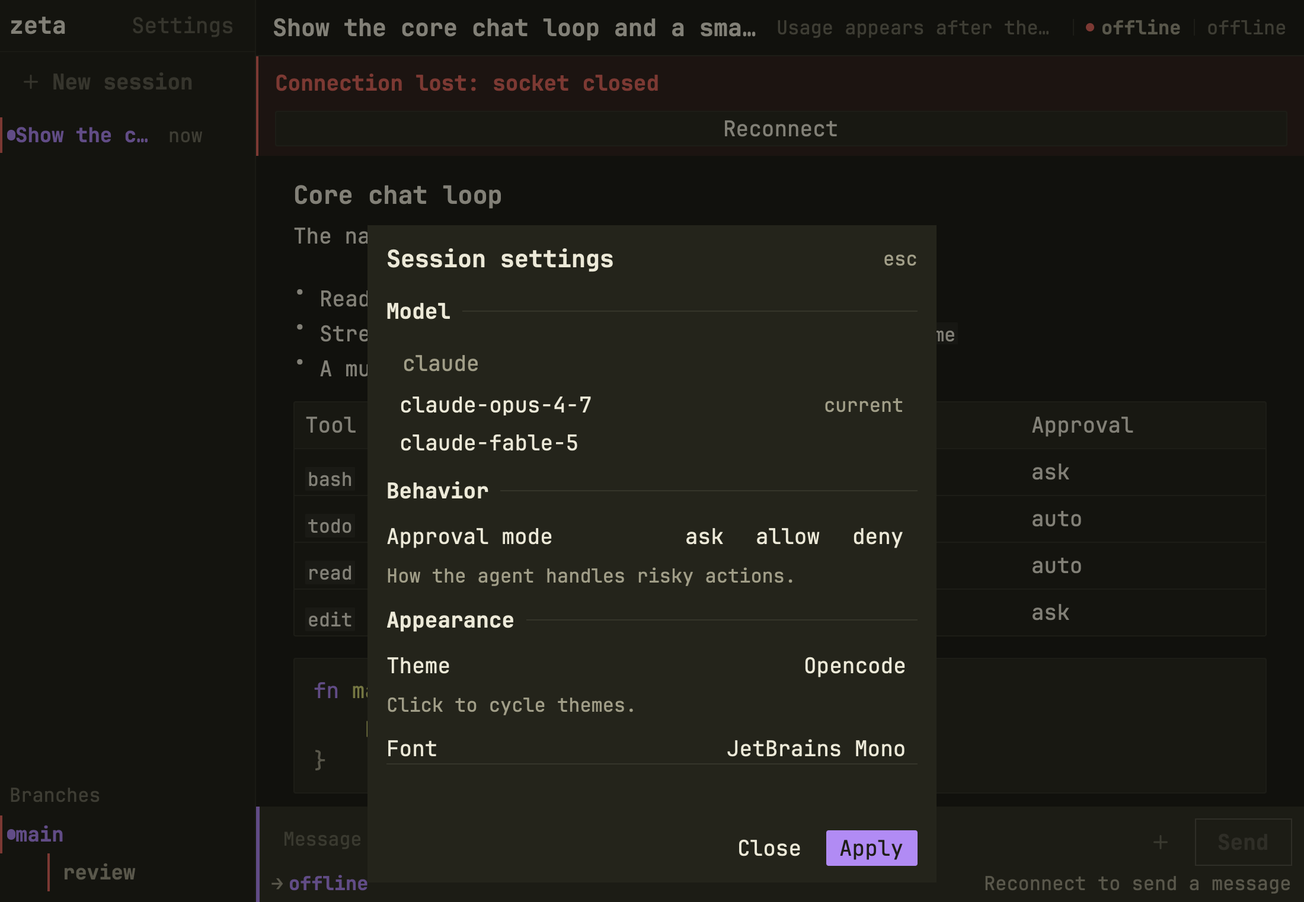
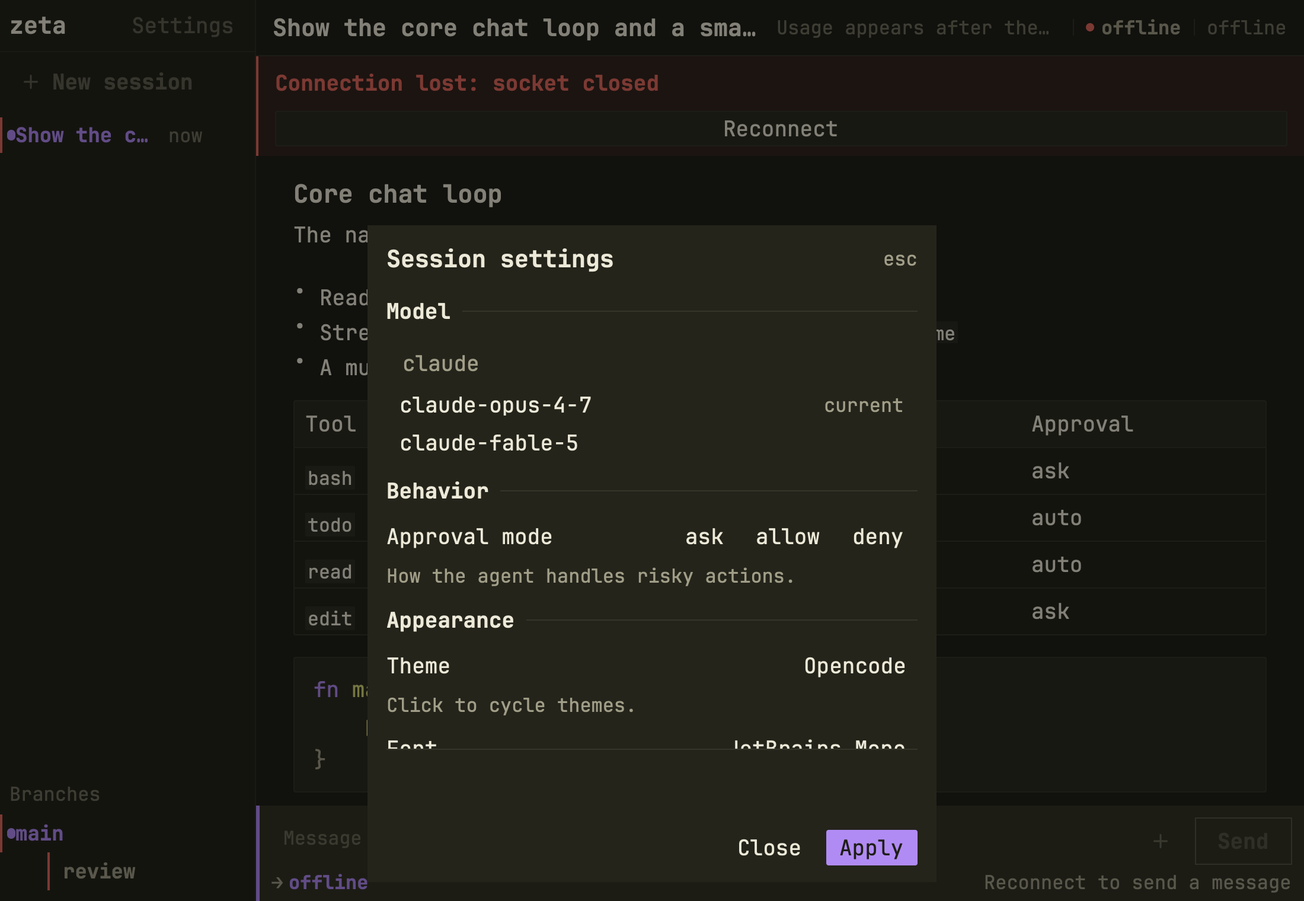
ZETA-128: Row-aligned scroll cue mask + fresh 13/18px shots
Round 6 major: the round-5 mask undersized `cue_h` at 18px (43px vs 51px row),
so the scroll cue ended INSIDE the Font row's "Click to cycle monospace
families." caption. Floor the header height at `MODAL_BUTTON_HEIGHT` in
`settings_scroll_cue_height` — every Settings-row control is a Ghost/compact
button whose intrinsic h_8 (32px) dominates the body-font label — and the
mask now covers a full row (48/50/55 at 11/13/18px). Extend the mask-geometry
test to walk 11/13/18px and assert every row's description caption is either
wholly above the mask top edge or wholly at/below it — a description that
straddles the cue is the round-5 defect and this pins the invariant.

Round 6 minor: recapture ZETA-128-after.png (13px) and ZETA-128-after-18px.png
(18px) in one smoke cycle so both shots post-date the scroll cue renderer
(prior 13px shot predated it at 722d13f). Update the ticket-ladder text to
describe the cue overlay and the final `settings_focus` tab-stop registration.

diff --git a/gui/src/tests.rs b/gui/src/tests.rs
@@ -8831,37 +8831,81 @@ fn settings_sections_carry_a_bottom_scroll_cue_mask(cx: &mut TestAppContext) {
     // clip to a row boundary (mixed row heights), so the panel paints an
     // opaque mask at the wrapper's bottom edge that hides any partial row
     // the clip would otherwise slice mid-caption. The mask carries a 1px
-    // top edge line as the scroll cue. This test proves at the picker's
-    // MAX 18px base — where the pre-round-5 shot sliced the Font-size
-    // row's caption — the mask renders inside the panel, has the
-    // documented height, and sits flush with the panel bottom padding.
+    // top edge line as the scroll cue.
+    //
+    // Round-6 tightens the boundary math: a settings row is the FULL
+    // `settings_row` element (label/control header + description caption
+    // + inter-row gap) — the reviewer flagged the round-5 shot at 18px
+    // where the mask covered only the header and cut off inside the Font
+    // row's description. So this test walks every picker base (11 / 13 /
+    // 18) and asserts, for every row, that no row straddles the mask's
+    // top edge — either the row's description bottom sits above the mask
+    // (fully visible) or the row's top sits below the mask edge (fully
+    // masked). Row = whatever `debug_bounds("settings-row-*")` returns,
+    // which includes the description because `settings_row` composes
+    // header + description as one v_flex.
     wipe_scoped_prefs();
     let (window, view, _) = setup(cx);
     let mut visual = VisualTestContext::from_window(window.into(), cx);
     open_settings_with_default_catalog(&view, &mut visual);
-    let appearance = theme::Appearance {
-        theme: theme::ThemeId::default(),
-        font_family: gpui::SharedString::new_static(theme::DEFAULT_FONT_FAMILY),
-        font_size: theme::clamp_font_size(theme::MAX_FONT_SIZE_PX),
-    };
-    visual.update(|_, cx| theme::apply_with(cx, &appearance));
-    visual.update(|window, cx| window.draw(cx).clear(cx));
-    let panel = visual
-        .debug_bounds("settings-panel")
-        .expect("panel renders at 18px");
-    let cue = visual
-        .debug_bounds("settings-scroll-cue")
-        .expect("scroll-cue mask renders at 18px");
-    let cue_height = cue.bottom() - cue.top();
-    let expected = theme::settings_scroll_cue_height(px(18.));
-    assert!(
-        (cue_height - expected).abs() <= px(1.),
-        "scroll-cue height {cue_height:?} must match the token {expected:?}"
-    );
-    assert!(
-        cue.left() >= panel.left() - px(1.) && cue.right() <= panel.right() + px(1.),
-        "scroll-cue {cue:?} must sit inside the panel {panel:?}"
-    );
+    for base_px in [11.0_f32, 13.0, 18.0] {
+        let appearance = theme::Appearance {
+            theme: theme::ThemeId::default(),
+            font_family: gpui::SharedString::new_static(theme::DEFAULT_FONT_FAMILY),
+            font_size: theme::clamp_font_size(base_px),
+        };
+        visual.update(|_, cx| theme::apply_with(cx, &appearance));
+        visual.update(|window, cx| window.draw(cx).clear(cx));
+        let panel = visual
+            .debug_bounds("settings-panel")
+            .unwrap_or_else(|| panic!("panel renders at {base_px}px"));
+        let cue = visual
+            .debug_bounds("settings-scroll-cue")
+            .unwrap_or_else(|| panic!("scroll-cue mask renders at {base_px}px"));
+        let cue_height = cue.bottom() - cue.top();
+        let expected = theme::settings_scroll_cue_height(px(base_px));
+        assert!(
+            (cue_height - expected).abs() <= px(1.),
+            "scroll-cue height {cue_height:?} at {base_px}px must match the token {expected:?}"
+        );
+        assert!(
+            cue.left() >= panel.left() - px(1.) && cue.right() <= panel.right() + px(1.),
+            "scroll-cue {cue:?} at {base_px}px must sit inside the panel {panel:?}"
+        );
+        // Row-description invariant: for every rendered settings row's
+        // description caption, its extent must be either wholly above
+        // the mask top edge OR wholly at/below it — the mask cannot end
+        // INSIDE a description. That was the round-5 defect the reviewer
+        // flagged at 18px: the Font row's caption was clipped mid-line by
+        // the mask top edge. The reviewer's ideal is FULL-row alignment
+        // (header + description together), but with a mask that paints
+        // absolutely at the wrapper's bottom the header can only be
+        // guaranteed row-aligned via a scroll snap the settings wrapper
+        // does not carry. Description alignment is the achievable
+        // invariant here and directly guards the "cue ends inside a
+        // caption" shape the finding named. `settings-row-*-description`
+        // debug_bounds return the caption element's own bounds.
+        let mask_top = cue.top();
+        for row_sel in [
+            "settings-row-approval",
+            "settings-row-theme",
+            "settings-row-font",
+            "settings-row-size",
+        ] {
+            let desc_sel = format!("{row_sel}-description");
+            let desc = visual
+                .debug_bounds(&desc_sel)
+                .unwrap_or_else(|| panic!("{desc_sel} renders at {base_px}px"));
+            let fully_visible = desc.bottom() <= mask_top + px(1.);
+            let fully_masked = desc.top() >= mask_top - px(1.);
+            assert!(
+                fully_visible || fully_masked,
+                "{desc_sel} at {base_px}px straddles the scroll-cue mask top: \
+                 description {desc:?}, mask top {mask_top:?} \
+                 (caption must be fully visible or fully masked — never sliced)"
+            );
+        }
+    }
     // Reset for peer tests.
     visual.update(|_, cx| theme::apply(cx));
     wipe_scoped_prefs();

diff --git a/gui/src/theme.rs b/gui/src/theme.rs
@@ -203,19 +203,31 @@ pub const SETTINGS_PANEL_MAX_HEIGHT: Pixels = px(560.);
 /// carry mixed heights — a heading, a stepper, a captioned toggle — and
 /// gpui does not surface per-child measured heights during layout). The
 /// panel instead paints an opaque overlay on the wrapper's bottom edge
-/// that is TALLER than any single row's caption line, so any partial row
-/// the clip would otherwise slice sits entirely INSIDE the mask. The mask
-/// carries a 1px top edge line (the scroll cue) so the eye reads "content
-/// continues below" without the wrapper ever exposing a half-row. Scales
-/// with the base font size so the mask still hides a whole caption at the
-/// picker's MAX 18px base: 2 body rows + gap + description row cover the
-/// worst-case Font-size row (label + "Whole pixels, 11 to 18." caption).
+/// that is TALLER than one full row (header + description + inter-row
+/// gap), so the FULL row is the indivisible unit the mask hides: no
+/// partial header sits above the mask edge, and no orphaned description
+/// leaks below it. The mask carries a 1px top edge line (the scroll cue)
+/// so the eye reads "content continues below" without the wrapper ever
+/// exposing a half-row.
+///
+/// Header height is floored at `MODAL_BUTTON_HEIGHT` because every
+/// Settings row's control is a Ghost/compact button (theme cycler, font
+/// cycler, size stepper, mode segmented) whose intrinsic height is
+/// `Size::Medium` (h_8, 32px). The label text at body size (18px MAX)
+/// stays shorter than the button, so the header row measures at the
+/// button height, not the body font. The pre-round-6 formula used the
+/// body font as the header floor and yielded 43px at 18px, which fell
+/// ~8px short of the true 51px Font row — the mask ended INSIDE that
+/// row's "Whole pixels, 11 to 18." caption. Flooring at
+/// `MODAL_BUTTON_HEIGHT` sizes the mask to the true row height at
+/// every picker base.
 pub fn settings_scroll_cue_height(base: Pixels) -> Pixels {
     let body = f32::from(base);
     let label_small_val = (body - 1.).max(MIN_LABEL_PX);
     let row_gap = f32::from(SETTINGS_ROW_GAP);
     let desc_gap = f32::from(SETTINGS_ROW_DESCRIPTION_GAP);
-    px((body + desc_gap + label_small_val + row_gap).ceil())
+    let header = body.max(f32::from(MODAL_BUTTON_HEIGHT));
+    px((header + desc_gap + label_small_val + row_gap).ceil())
 }
 
 /// Clamp a candidate font size to the appearance picker's whole-px window.
@@ -1823,14 +1835,19 @@ mod tests {
         assert_eq!(settings_label_column(px(11.)), px(119.));
         assert_eq!(settings_label_column(px(13.)), px(140.));
         assert_eq!(settings_label_column(px(18.)), px(194.));
-        // The scroll-cue mask hides a whole row (header + description +
-        // row gap) so the sections wrapper's clip never exposes a
-        // half-caption. Grows linearly with the picker: 29px at 11px,
-        // 33px at 13px (shipped default), and 43px at 18px MAX — the
-        // captioned Font-size row that the pre-round-5 clip sliced.
-        assert_eq!(settings_scroll_cue_height(px(11.)), px(29.));
-        assert_eq!(settings_scroll_cue_height(px(13.)), px(33.));
-        assert_eq!(settings_scroll_cue_height(px(18.)), px(43.));
+        // The scroll-cue mask hides a full row (button-height header +
+        // description + row gap) so the sections wrapper's clip never
+        // slices a row anywhere — no partial header above the mask edge,
+        // no orphaned description below it. Header is floored at
+        // `MODAL_BUTTON_HEIGHT` because every Settings-row control is a
+        // Ghost/compact button whose intrinsic height dominates the
+        // body-font label. The pre-round-6 formula used the body font
+        // as the header floor and undersized the mask at 18px (43px vs
+        // 51px row), which let the Font row's caption end inside the
+        // mask.
+        assert_eq!(settings_scroll_cue_height(px(11.)), px(48.));
+        assert_eq!(settings_scroll_cue_height(px(13.)), px(50.));
+        assert_eq!(settings_scroll_cue_height(px(18.)), px(55.));
 
         let tint = opencode().danger_tint();
         let danger = opencode().danger;

diff --git a/docs/design.md b/docs/design.md
@@ -116,7 +116,7 @@ the harness-native distillation.
 | ZETA-127 | Native pixel-gutter wrap guard (arc: GUI polish, infra follow-up): extend the existing fake-server smoke driver with an explicitly invoked `ZETA_GUI_NATIVE_GUARDS=1` arm. Derive two display-safe window sizes, wait for native resize delivery, and assert each capture's achieved dimensions. Record achieved sizes in every matrix entry; warn and skip duplicate achieved viewports, then fail unless two distinct widths were rendered. Render the critique, adjacent numbered list, deeper nesting, and a genuinely over-budget long token at 11px, 13px, and 18px for each distinct viewport. Capture real native pixels and scan the band from the prose content-box edge to the scrollbar rail; two adjacent over-threshold non-background pixels fail with the shape, size, and x range. Keep the ZETA-124 recorder and formula tests as the headless inner layer, and document the native pixel arm as the outer layer. Recreate the round-3 evasion with `ZETA_GUI_NATIVE_GUARDS_FORCE_TEXT_WIDTH=1`; the guard must fail. Wire `make gui-native-guards`; macOS CI can clamp a requested window to the available display, so the guard derives requests below that limit and validates the rendered sizes. The restored macOS CI step is authoritative. Depends on ZETA-124. | ZETA-124 |
 | ZETA-125 | Tool receipt redesign (arc: GUI polish, lane 3 of 5): the pre-fix critique showed eight consecutive `bash stdout:` rows with byte sizes right-aligned across a huge column — the receipts never named the command that ran, and the metadata was too far from what it described to read as attached. Every receipt now shows a stable EXCERPT of the tool call (bash/exec/shell → first line of `command`; read/write/edit/list → `path`; fetch/webfetch → `url`; other tools → first primitive arg, else the tool name alone), derived at `tool_entry()` construction from `tool_call.arguments` and stored on `TranscriptEntry::Tool::excerpt` (bounded at `EXCERPT_CHARS = 160` with a single-character ellipsis). The row's PRIMARY text becomes the excerpt at the state color (running=foreground, done=muted, failed=danger); the tool name demotes to a small semibold muted label. Size metadata sits DIRECTLY after the excerpt (laws-of-ux proximity) — flex_shrink_0 at label_small, not right-aligned across the whole column. A run of `TOOL_GROUP_MIN_LEN = 3` or more consecutive tool receipts collapses into ONE group summary row ("N tool calls" · previewed first `TOOL_GROUP_PREVIEW_MAX = 2` excerpts · total output bytes); interior rows paint a zero-height spacer so virtual-list index math stays 1:1 with `TranscriptEntry` indices without a projection layer. Group expansion is stored on `AppState::tool_group_expanded` keyed by the first receipt's `tool_call_id` (stable across a run that grows a new tail); `is_tool_group_expanded` forces every group in the LIVE turn expanded while `streaming` so live tool activity stays on screen without a click, and each group in the historical turns keeps whatever state the user set it to. Group summary rows are real tab stops (matches ZETA-108's a11y precedent) with a `FocusHandle` cached per group in `ZetaView::tool_group_focus`; Enter/Space toggles the group and remeasures the run's rows through the ZETA-107 ordered-edit view-sync. The accessible label carries the expansion state (`, collapsed` / `, expanded`) so keyboard-only users hear what changes on activation. The `row_text` model extends with `ToolRowText { tool_label, excerpt, metadata_label, hover_hint, tail_omitted_hint, body }` and a `ToolGroupRowText { count_label, total_label, preview_excerpts, aria_label }` variant plus a `ToolGroupHidden` marker; every visible group string is composed in `build_tool_group` so the ZETA-109 renderer-literal fence continues to pass unchanged. Tests: `zeta125_excerpts_route_by_kind_and_truncate` covers bash/read/write/edit/fetch/other + ellipsis truncation; `zeta125_metadata_paints_directly_after_the_excerpt` asserts the metadata's x-origin sits within 64px of the excerpt end (the pre-fix layout right-aligned it across the whole column and this test is that gap's grave); `zeta125_grouping_at_three_or_more_receipts` proves the 3+ threshold and pins the composed count/total/preview strings; `zeta125_group_toggles_on_mouse_and_keyboard` drives expansion through the same state seam the click AND key handlers dispatch through; `zeta125_streaming_forces_current_turn_groups_expanded` pins the streaming override; `zeta125_receipt_layout_holds_at_11px_and_18px` runs the layout across the appearance picker's floor and ceiling. No RPC, protocol, or server changes — the underlying entries, ordering, and fork anchors stay intact; grouping is presentation only. Screenshots: `docs/screenshots/ZETA-125-{before,after,after-grouped}.png`. | ZETA-124 |
 | ZETA-120 | `/init` slash command submits a repository-exploration prompt that creates or improves root `AGENTS.md`, with nested `AGENTS.md` guidance for folder-specific rules (arc: harness parity; lane 4 of 5). | — |
-| ZETA-128 | Restructure the Settings surface (arc: GUI polish, lane 5): the Session-settings modal is three grouped sections — Model, Behavior, Appearance — each with a body-tier semibold heading and a hairline divider rule. Every labeled row flows through ONE anatomy: `settings_row(selector, label, description, control, cx)` — a token-derived label column on the left, a right-aligned control slot, and an optional muted-foreground caption below routed through `label_small`. The label column widens with the picker base (`settings_label_column(base) = round(base * 10.8)` — 119px at 11px, 140px at 13px, 194px at 18px) so long labels ("Approval mode") do not wrap into a stacked block at the 18px picker MAX. The pre-round-1 stacked "caption above buttons" shape retires; the pre-round-2 button walls in Appearance retire too — Theme and Font collapse into ONE focusable cycler each (compact single-value select — clicking advances one step through `ThemeId::ALL` / `FONT_FAMILIES` and wraps at the ends), cutting Appearance from nine tab stops to two so every focus ring paints inside the 760px viewport at 18px. The font-size row keeps the shrink/value/grow stepper primitives without a "range 11-18px" caption — the disabled `−` at MIN and `+` at MAX carry the picker window. Full keyboard traversal inside the modal: Tab / Shift-Tab walk every control (approval buttons, theme cycler, font cycler, stepper, Close, Apply); Escape closes and returns focus to whoever opened the modal — the focus handle is captured inside `apply_worker_message::Settings` (the moment settings actually opens) so callers on other surfaces (`sidebar.rs`, `transcript_render.rs`) do NOT need to thread a `Window` through `open_settings`. Safety net for the sections that overflow at 18px: the sections wrapper carries `overflow_y_scroll` + `.track_scroll(&settings_sections_scroll)`; each section container carries `.track_focus(&handle)` with a lazily-allocated persistent handle (same pattern as `sidebar_row_focus`) so the render pass checks `contains_focused(window, cx)` on each section and calls `scroll_to_item(section_ix)` before the frame paints — the focused control's parent section swings back into view. Modal chrome: the `esc` hint moves off `theme::palette::text_faint()` (2.92-4.03:1 on the panel across the five themes — WCAG AA needs 4.5:1) and onto `cx.theme().muted_foreground`, which clears AA on every theme; row descriptions ride the same token. Panel height is `min(shelf, SETTINGS_PANEL_MAX_HEIGHT)` where `shelf = viewport * (1 - MODAL_TOP_FRACTION) - MODAL_PADDING_X`: short viewports pack the panel tight against the shelf so `flex_1 + min_h_0` on the sections wrapper has a definite parent; tall viewports (1200px+) cap at 560px so the flat modal keeps the wiki-modal silhouette instead of stretching to page height. Close / Apply stay at the panel bottom inside the viewport at every picker base. Modal focus trap: the overlay wraps its content in `.focus_trap("settings-modal", &self.settings_focus)` (from `gpui_kit::base`), which registers the panel with the focus-trap manager; Root's `Tab` / `TabPrev` actions consult the manager and cycle focus back inside the modal whenever a step would escape to a background tab stop (composer, sidebar). Model rows carry per-index persistent focus handles (`settings_model_row_focus`, same lazy `sidebar_row_focus` pattern); each Button is wrapped in a `div().track_focus(&handle)`, and the render pass scrolls the FOCUSED row into view (falls back to the SELECTED row when nothing is focused) so Tab-through-rows never leaves the ring outside the model list's clipped viewport. Theme tokens: `settings_label_column(base)`, `SETTINGS_SECTION_GAP` (10), `SETTINGS_ROW_GAP` (6), `SETTINGS_ROW_DESCRIPTION_GAP` (2), `SETTINGS_MODEL_LIST_MAX_HEIGHT` (160), `SETTINGS_PANEL_MAX_HEIGHT` (560). Behavior is frozen — Model selection, approval mode, theme/font/size options, persistence, and fallbacks stay identical (`prefs::commit` fires on every cycler click with the same values the pre-round-1 button wall did). New tests in a dedicated ZETA-128 region at the end of `tests.rs`: three grouped sections render with their `-heading` nodes; every labeled row has label bounds left of control bounds on the same baseline; the stepper drops the range caption and keeps its three primitives; Escape closes and restores focus to the captured invoker; Tab moves focus off the overlay onto a modal tab-stop control; the panel paints on the sidebar token across all five themes; Close/Apply stay inside the 760px viewport at BOTH 11px and 18px picker bases; the theme + font cyclers render inside their row control slots and the pre-round-2 button-wall selectors (`theme-row-*`, `font-row-*`, `settings-*-segmented`) are gone; every row description slot renders inside its row container; the label column widens strictly with the base font size (11→18); the `esc` hint paints on `muted_foreground` and its foreground-vs-panel contrast clears WCAG AA on every theme (mirrored by a `modal_hint_and_row_description_contrast_clears_wcag_aa_on_panel` test in `theme.rs`); at 18px every named tab stop (approval buttons, cyclers, stepper primitives, Close, Apply) sits strictly inside the viewport. Scope: `gui/src/main.rs` + `gui/src/theme.rs` + `gui/src/tests.rs` + `gui/src/session_management.rs` (one-line pass-through of `cx` to the updated `modal_title(title, cx)` signature). `gui/src/sidebar.rs` and `gui/src/transcript_render.rs` are untouched — the focus-capture centralisation makes their round-1 one-line window-pass-through unnecessary. Client-only: no RPC, protocol, or server changes; the ZETA-109 renderer-literal fence still passes because every new caption routes through the ZETA-124 label roles and theme tokens. Screenshots: `docs/screenshots/ZETA-128-{before,after,after-18px}.png` — round-3 captures show the modal at the shipped 13px default plus the 18px picker MAX; `before` remains the ZETA-124-era shape for the review diff. | ZETA-124 |
+| ZETA-128 | Restructure the Settings surface (arc: GUI polish, lane 5): the Session-settings modal is three grouped sections — Model, Behavior, Appearance — each with a body-tier semibold heading and a hairline divider rule. Every labeled row flows through ONE anatomy: `settings_row(selector, label, description, control, cx)` — a token-derived label column on the left, a right-aligned control slot, and an optional muted-foreground caption below routed through `label_small`. The label column widens with the picker base (`settings_label_column(base) = round(base * 10.8)` — 119px at 11px, 140px at 13px, 194px at 18px) so long labels ("Approval mode") do not wrap into a stacked block at the 18px picker MAX. The pre-round-1 stacked "caption above buttons" shape retires; the pre-round-2 button walls in Appearance retire too — Theme and Font collapse into ONE focusable cycler each (compact single-value select — clicking advances one step through `ThemeId::ALL` / `FONT_FAMILIES` and wraps at the ends), cutting Appearance from nine tab stops to two so every focus ring paints inside the 760px viewport at 18px. The font-size row keeps the shrink/value/grow stepper primitives without a "range 11-18px" caption — the disabled `−` at MIN and `+` at MAX carry the picker window. Full keyboard traversal inside the modal: Tab / Shift-Tab walk every control (approval buttons, theme cycler, font cycler, stepper, Close, Apply); Escape closes and returns focus to whoever opened the modal — the focus handle is captured inside `apply_worker_message::Settings` (the moment settings actually opens) so callers on other surfaces (`sidebar.rs`, `transcript_render.rs`) do NOT need to thread a `Window` through `open_settings`. Safety net for the sections that overflow at 18px: the sections wrapper carries `overflow_y_scroll` + `.track_scroll(&settings_sections_scroll)`; each section container carries `.track_focus(&handle)` with a lazily-allocated persistent handle (same pattern as `sidebar_row_focus`) so the render pass checks `contains_focused(window, cx)` on each section and calls `scroll_to_item(section_ix)` before the frame paints — the focused control's parent section swings back into view. Modal chrome: the `esc` hint moves off `theme::palette::text_faint()` (2.92-4.03:1 on the panel across the five themes — WCAG AA needs 4.5:1) and onto `cx.theme().muted_foreground`, which clears AA on every theme; row descriptions ride the same token. Panel height is `min(shelf, SETTINGS_PANEL_MAX_HEIGHT)` where `shelf = viewport * (1 - MODAL_TOP_FRACTION) - MODAL_PADDING_X`: short viewports pack the panel tight against the shelf so `flex_1 + min_h_0` on the sections wrapper has a definite parent; tall viewports (1200px+) cap at 560px so the flat modal keeps the wiki-modal silhouette instead of stretching to page height. Close / Apply stay at the panel bottom inside the viewport at every picker base. Modal focus trap: the overlay wraps its content in `.focus_trap("settings-modal", &self.settings_focus)` (from `gpui_kit::base`), which registers the panel with the focus-trap manager; Root's `Tab` / `TabPrev` actions consult the manager and cycle focus back inside the modal whenever a step would escape to a background tab stop (composer, sidebar). Model rows carry per-index persistent focus handles (`settings_model_row_focus`, same lazy `sidebar_row_focus` pattern); each Button is wrapped in a `div().track_focus(&handle)`, and the render pass scrolls the FOCUSED row into view (falls back to the SELECTED row when nothing is focused) so Tab-through-rows never leaves the ring outside the model list's clipped viewport. Theme tokens: `settings_label_column(base)`, `SETTINGS_SECTION_GAP` (10), `SETTINGS_ROW_GAP` (6), `SETTINGS_ROW_DESCRIPTION_GAP` (2), `SETTINGS_MODEL_LIST_MAX_HEIGHT` (160), `SETTINGS_PANEL_MAX_HEIGHT` (560). Behavior is frozen — Model selection, approval mode, theme/font/size options, persistence, and fallbacks stay identical (`prefs::commit` fires on every cycler click with the same values the pre-round-1 button wall did). New tests in a dedicated ZETA-128 region at the end of `tests.rs`: three grouped sections render with their `-heading` nodes; every labeled row has label bounds left of control bounds on the same baseline; the stepper drops the range caption and keeps its three primitives; Escape closes and restores focus to the captured invoker; Tab moves focus off the overlay onto a modal tab-stop control; the panel paints on the sidebar token across all five themes; Close/Apply stay inside the 760px viewport at BOTH 11px and 18px picker bases; the theme + font cyclers render inside their row control slots and the pre-round-2 button-wall selectors (`theme-row-*`, `font-row-*`, `settings-*-segmented`) are gone; every row description slot renders inside its row container; the label column widens strictly with the base font size (11→18); the `esc` hint paints on `muted_foreground` and its foreground-vs-panel contrast clears WCAG AA on every theme (mirrored by a `modal_hint_and_row_description_contrast_clears_wcag_aa_on_panel` test in `theme.rs`); at 18px every named tab stop (approval buttons, cyclers, stepper primitives, Close, Apply) sits strictly inside the viewport. Scope: `gui/src/main.rs` + `gui/src/theme.rs` + `gui/src/tests.rs` + `gui/src/session_management.rs` (one-line pass-through of `cx` to the updated `modal_title(title, cx)` signature). `gui/src/sidebar.rs` and `gui/src/transcript_render.rs` are untouched — the focus-capture centralisation makes their round-1 one-line window-pass-through unnecessary. Client-only: no RPC, protocol, or server changes; the ZETA-109 renderer-literal fence still passes because every new caption routes through the ZETA-124 label roles and theme tokens. Round-5 adds a bottom scroll cue on the sections wrapper: the wrapper's clip edge cannot cheaply snap to a row boundary (mixed row heights, no per-child measured heights during layout), so the panel paints an opaque `sidebar`-token overlay at the wrapper's bottom edge with a 1px `border` top-line — the "content continues below" cue Henry asked for. The overlay's height is `settings_scroll_cue_height(base) = max(body, MODAL_BUTTON_HEIGHT) + SETTINGS_ROW_DESCRIPTION_GAP + label_small + SETTINGS_ROW_GAP` (48px at 11px, 50px at 13px, 55px at 18px MAX), and the `MODAL_BUTTON_HEIGHT` floor sizes the mask to the true `settings_row` height so a caption never ends INSIDE the mask — the round-6 reviewer flagged the round-5 shot at 18px where the earlier body-floored formula sliced the Font row's "Click to cycle monospace families." caption mid-line. A trailing spacer of the same height reserves blank room after the last section so a scrolled-to-end user never sees the mask paint over real content. Round-5 also lands the FINAL focus registration: `settings_focus` is registered as a real `.track_focus()` tab-stop so a Tab-cycle from Apply wraps back to the modal anchor instead of escaping to a background surface; `settings_focus_is_a_focus_trap_anchor_the_cycle_can_reach` in `tests.rs` pins the wrap by dispatching a real `TabPrev` action and asserting focus lands on `settings_focus`. Screenshots: `docs/screenshots/ZETA-128-{before,after,after-18px}.png` — `after` (13px shipped default) and `after-18px` (18px picker MAX) both recaptured round 6 to include the scroll cue and the registered focus anchor; `before` remains the ZETA-124-era shape for the review diff. | ZETA-124 |
 | ZETA-51 | Main-red hotfix: loop.py over the module cap (found 2026-08-28 by the ZETA-50 lane): ZETA-43 (#72) and ZETA-47 (#73) each merged green independently, but their combined loop.py additions total 1,240 lines against the 1,200 cap — `test_module_limits` fails on main, blocking every lane. Extract a cohesive seam from `src/zeta/loop.py` into a focused module (per the repo's core/ layout; candidates: the parallel-dispatch batching block or the failure/retry plumbing) — PURE MOVE, zero behavior change, full suite green both envs. Process followup noted in the row: sequential same-day merges need a post-merge combined-suite check since the repo has no CI. | ZETA-43, ZETA-47 |
 | ZETA-52 | Main-red hotfix: content-sensitive cost assertion (found 2026-08-28 by the ZETA-48 review): `tests/test_slash.py::test_status_counts_compaction_usage` asserts an exact dollar cost derived from live schema/system-prompt byte counts — ZETA-50 (#74) added todo-schema bytes after ZETA-46 (#71) wrote the test, so the combination is red on main while each PR was green (second silent semantic collision; no CI). Fix the TEST, not the feature: compute the expected cost from the same token inputs the code sees (or pin the fake-usage fixture so schema size cannot leak in) — assert derivation, never a hardcoded dollar figure. Sweep test_slash.py for any other exact-cost literals with the same sensitivity. Process rule recorded: post-merge verification on main = FULL suite, not spot checks. | ZETA-46, ZETA-50 |
 | ZETA-39 | Prompt-cache breakpoint tuning (arc: cache efficiency, Henry 2026-08-26; lifts the ZETA-23 deferral): audit current Anthropic `cache_control` placement; move any volatile content out of the cached prefix (system prompt and tools blocks must be byte-stable across turns of one session); place the max-4 breakpoints deliberately (system, tools, conversation prefix boundary at the compaction-stable point); compaction must not rewrite the cached prefix except when it genuinely changes. Measure via the ZETA-23 usage counters: add a regression test asserting consecutive-turn cache reads on a fake-usage session, plus governance tests locking placement. Codex side: verify server-side caching is not defeated by request shape churn. | ZETA-23 |
